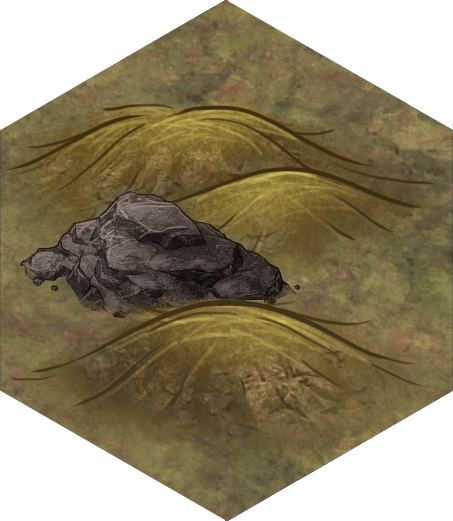
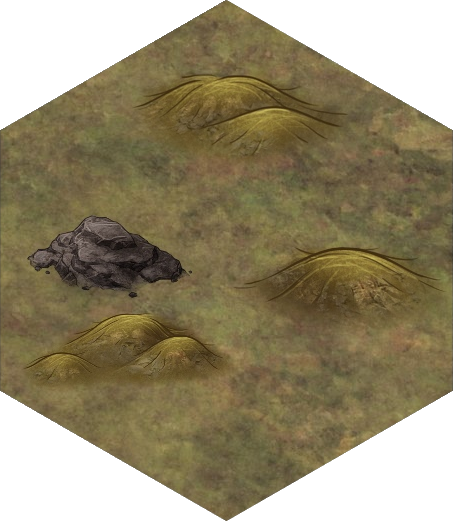
add water and mountains

Changed region(s): [[0.0309, 0.1228, 0.9581, 0.8599], [0.4636, 0.9827, 0.5254, 1.0]]

diff --git a/strongson-frontend/src/constants/tile-representations.const.tsx b/strongson-frontend/src/constants/tile-representations.const.tsx
@@ -58,6 +58,32 @@ const hillsDefault = {
         </p>,
 };
 
+const shoreWaterDefault = {
+    id: '0',
+    configId: ConfigIds.SHORE_WATER,
+    displayName: 'Water',
+    pictureUrl: 'shore-water-0.png',
+    description:
+        <p>
+            Low tide water. Stuff like water mills and sea ports may be built there!
+            <br/>---<br/>
+            <i>"If boat is heavier than water, then how it floats?"</i>
+        </p>,
+};
+
+const mountainsDefault = {
+    id: '0',
+    configId: ConfigIds.MOUNTAINS,
+    displayName: 'Mountains',
+    pictureUrl: 'mountains-0.png',
+    description:
+        <p>
+            Immovable mountains raising up the sky. Epic.
+            <br/>---<br/>
+            <i>"Taller the mountain, shorter the dwarf that lives in it."</i>
+        </p>,
+};
+
 /**
  * Map of every TileConfig to its possible TileRepresentations via <configId, Array<TileRepresentation>> map.
  */
@@ -96,5 +122,21 @@ export const TILE_REPRESENTATIONS: Map<TileRepresentation['configId'], Array<Til
             {...hillsDefault, id: '3', pictureUrl: 'hills-3.png'},
             {...hillsDefault, id: '4', pictureUrl: 'hills-4.png'},
             {...hillsDefault, id: '5', pictureUrl: 'hills-5.png'},
+        ]],
+        [ConfigIds.SHORE_WATER, [
+            {...shoreWaterDefault},
+            {...shoreWaterDefault, id: '1', pictureUrl: 'shore-water-1.png'},
+            {...shoreWaterDefault, id: '2', pictureUrl: 'shore-water-2.png'},
+            {...shoreWaterDefault, id: '3', pictureUrl: 'shore-water-3.png'},
+            {...shoreWaterDefault, id: '4', pictureUrl: 'shore-water-4.png'},
+            {...shoreWaterDefault, id: '5', pictureUrl: 'shore-water-5.png'},
+        ]],
+        [ConfigIds.MOUNTAINS, [
+            {...mountainsDefault},
+            {...mountainsDefault, id: '1', pictureUrl: 'mountains-1.png'},
+            {...mountainsDefault, id: '2', pictureUrl: 'mountains-2.png'},
+            {...mountainsDefault, id: '3', pictureUrl: 'mountains-3.png'},
+            {...mountainsDefault, id: '4', pictureUrl: 'mountains-4.png'},
+            {...mountainsDefault, id: '5', pictureUrl: 'mountains-5.png'},
         ]],
     ]);

diff --git a/strongson-frontend/webpack.config.ts b/strongson-frontend/webpack.config.ts
@@ -73,6 +73,8 @@ const config: webpack.Configuration = {
                 {from: path.join('public', 'assets', 'forest')},
                 {from: path.join('public', 'assets', 'hills')},
                 {from: path.join('public', 'assets', 'grassland')},
+                {from: path.join('public', 'assets', 'shore-water')},
+                {from: path.join('public', 'assets', 'mountains')},
             ],
         }),
     ],

diff --git a/strongson-frontend/src/components/features/tile-preview/tile-preview.styles.scss b/strongson-frontend/src/components/features/tile-preview/tile-preview.styles.scss
@@ -56,6 +56,14 @@ $bg-secondary: #EED7C5;
     background-image: url('hills-bg.svg');
   }
 
+  &.mountains::before {
+    background-image: url('mountains-bg.svg');
+  }
+
+  &.shore-water::before {
+    background-image: url('shore-water-bg.svg');
+  }
+
   .header-container {
     font-weight: bold;
     font-size: 2em;

diff --git a/strongson-frontend/src/constants/config-ids.enum.ts b/strongson-frontend/src/constants/config-ids.enum.ts
@@ -6,4 +6,6 @@ export enum ConfigIds {
     FOREST = 'forest',
     HILLS = 'hills',
     GRASSLAND = 'grassland',
+    SHORE_WATER = 'shore-water',
+    MOUNTAINS = 'mountains',
 }
